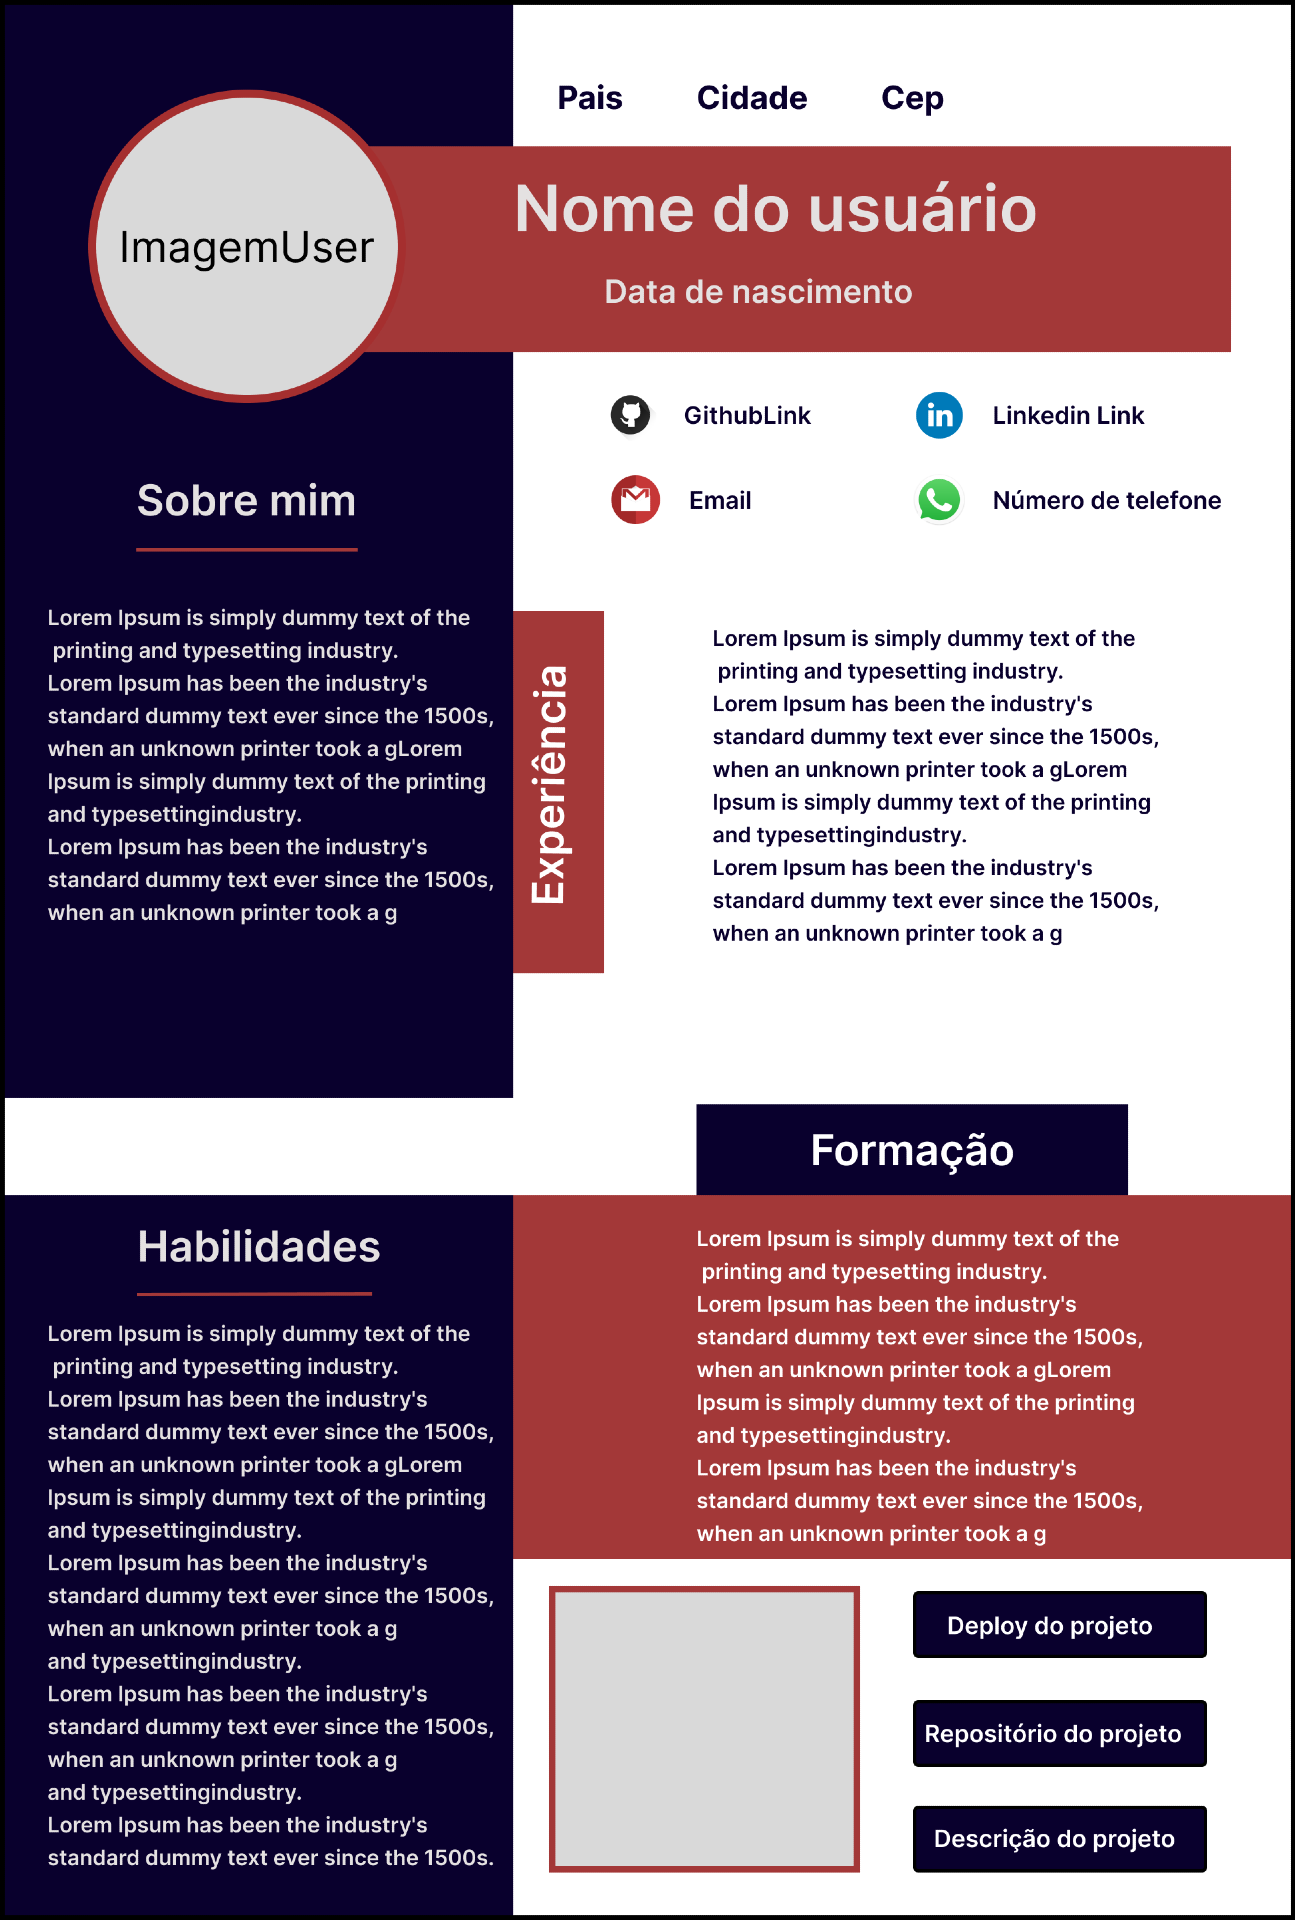
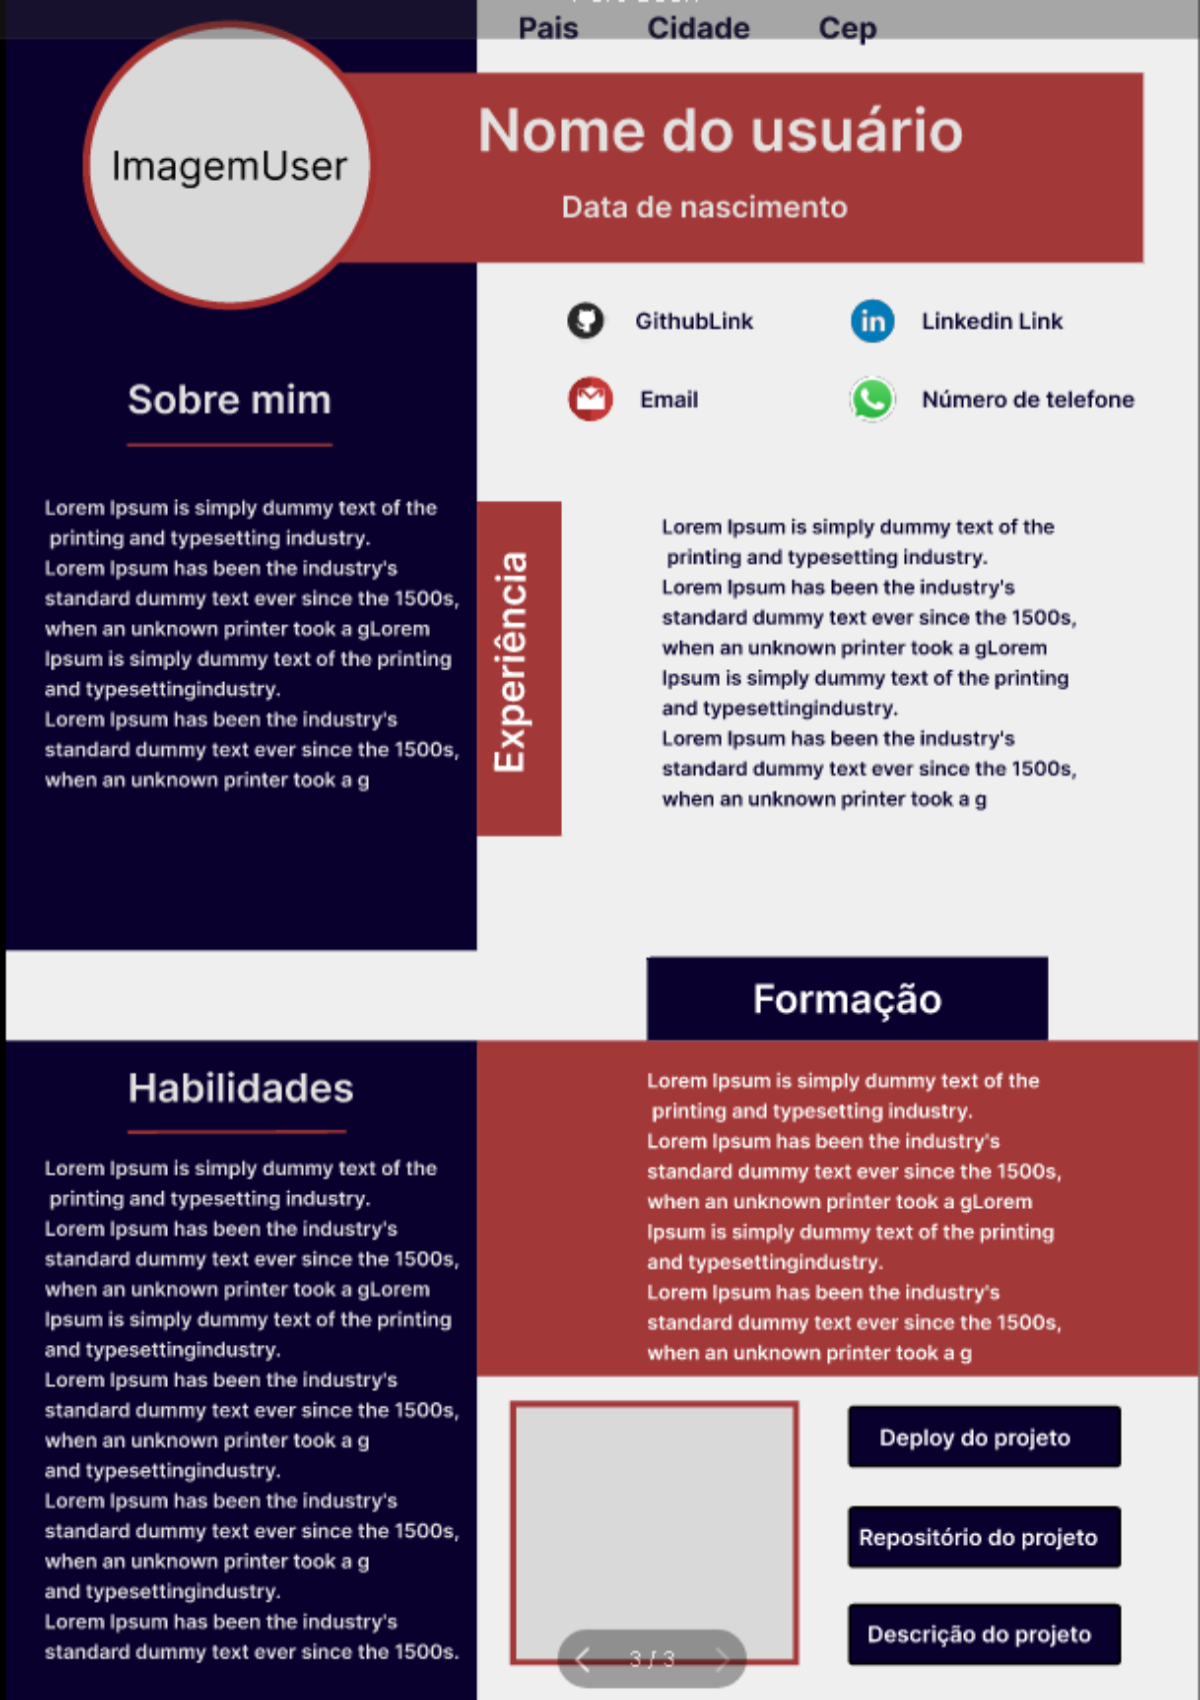
fix: alterando imagens do portfolio

Changed region(s): [[0.0, 0.0, 1.0, 1.0]]

diff --git a/src/pages/Dashboard/index.tsx b/src/pages/Dashboard/index.tsx
@@ -9,9 +9,9 @@ import {
 import { DashboardContext } from "../../contexts/DashboardContext";
 import { useContext } from "react";
 import { toast } from "react-toastify";
-import imgPortfolio1 from "../../assets/img/05_resume_template.png";
-import imgPortfolio2 from "../../assets/img/1092.png";
-import imgPortfolio3 from "../../assets/img/5215985.png";
+import imgPortfolio1 from "../../assets/img/Layout-1.png";
+import imgPortfolio2 from "../../assets/img/Layout-2.png";
+import imgPortfolio3 from "../../assets/img/Layout-3.png";
 import backGroundBtn from "../../assets/img/backgroundBtn.png";
 import logo from "../../assets/logo/logo.png";
 import { ModalDelete } from "../../components/ModalDelete";
@@ -56,6 +56,7 @@ export const Dashboard = () => {
               >
                 Logout
               </Link>
+              <div></div>
             </div>
           </div>
         </div>
